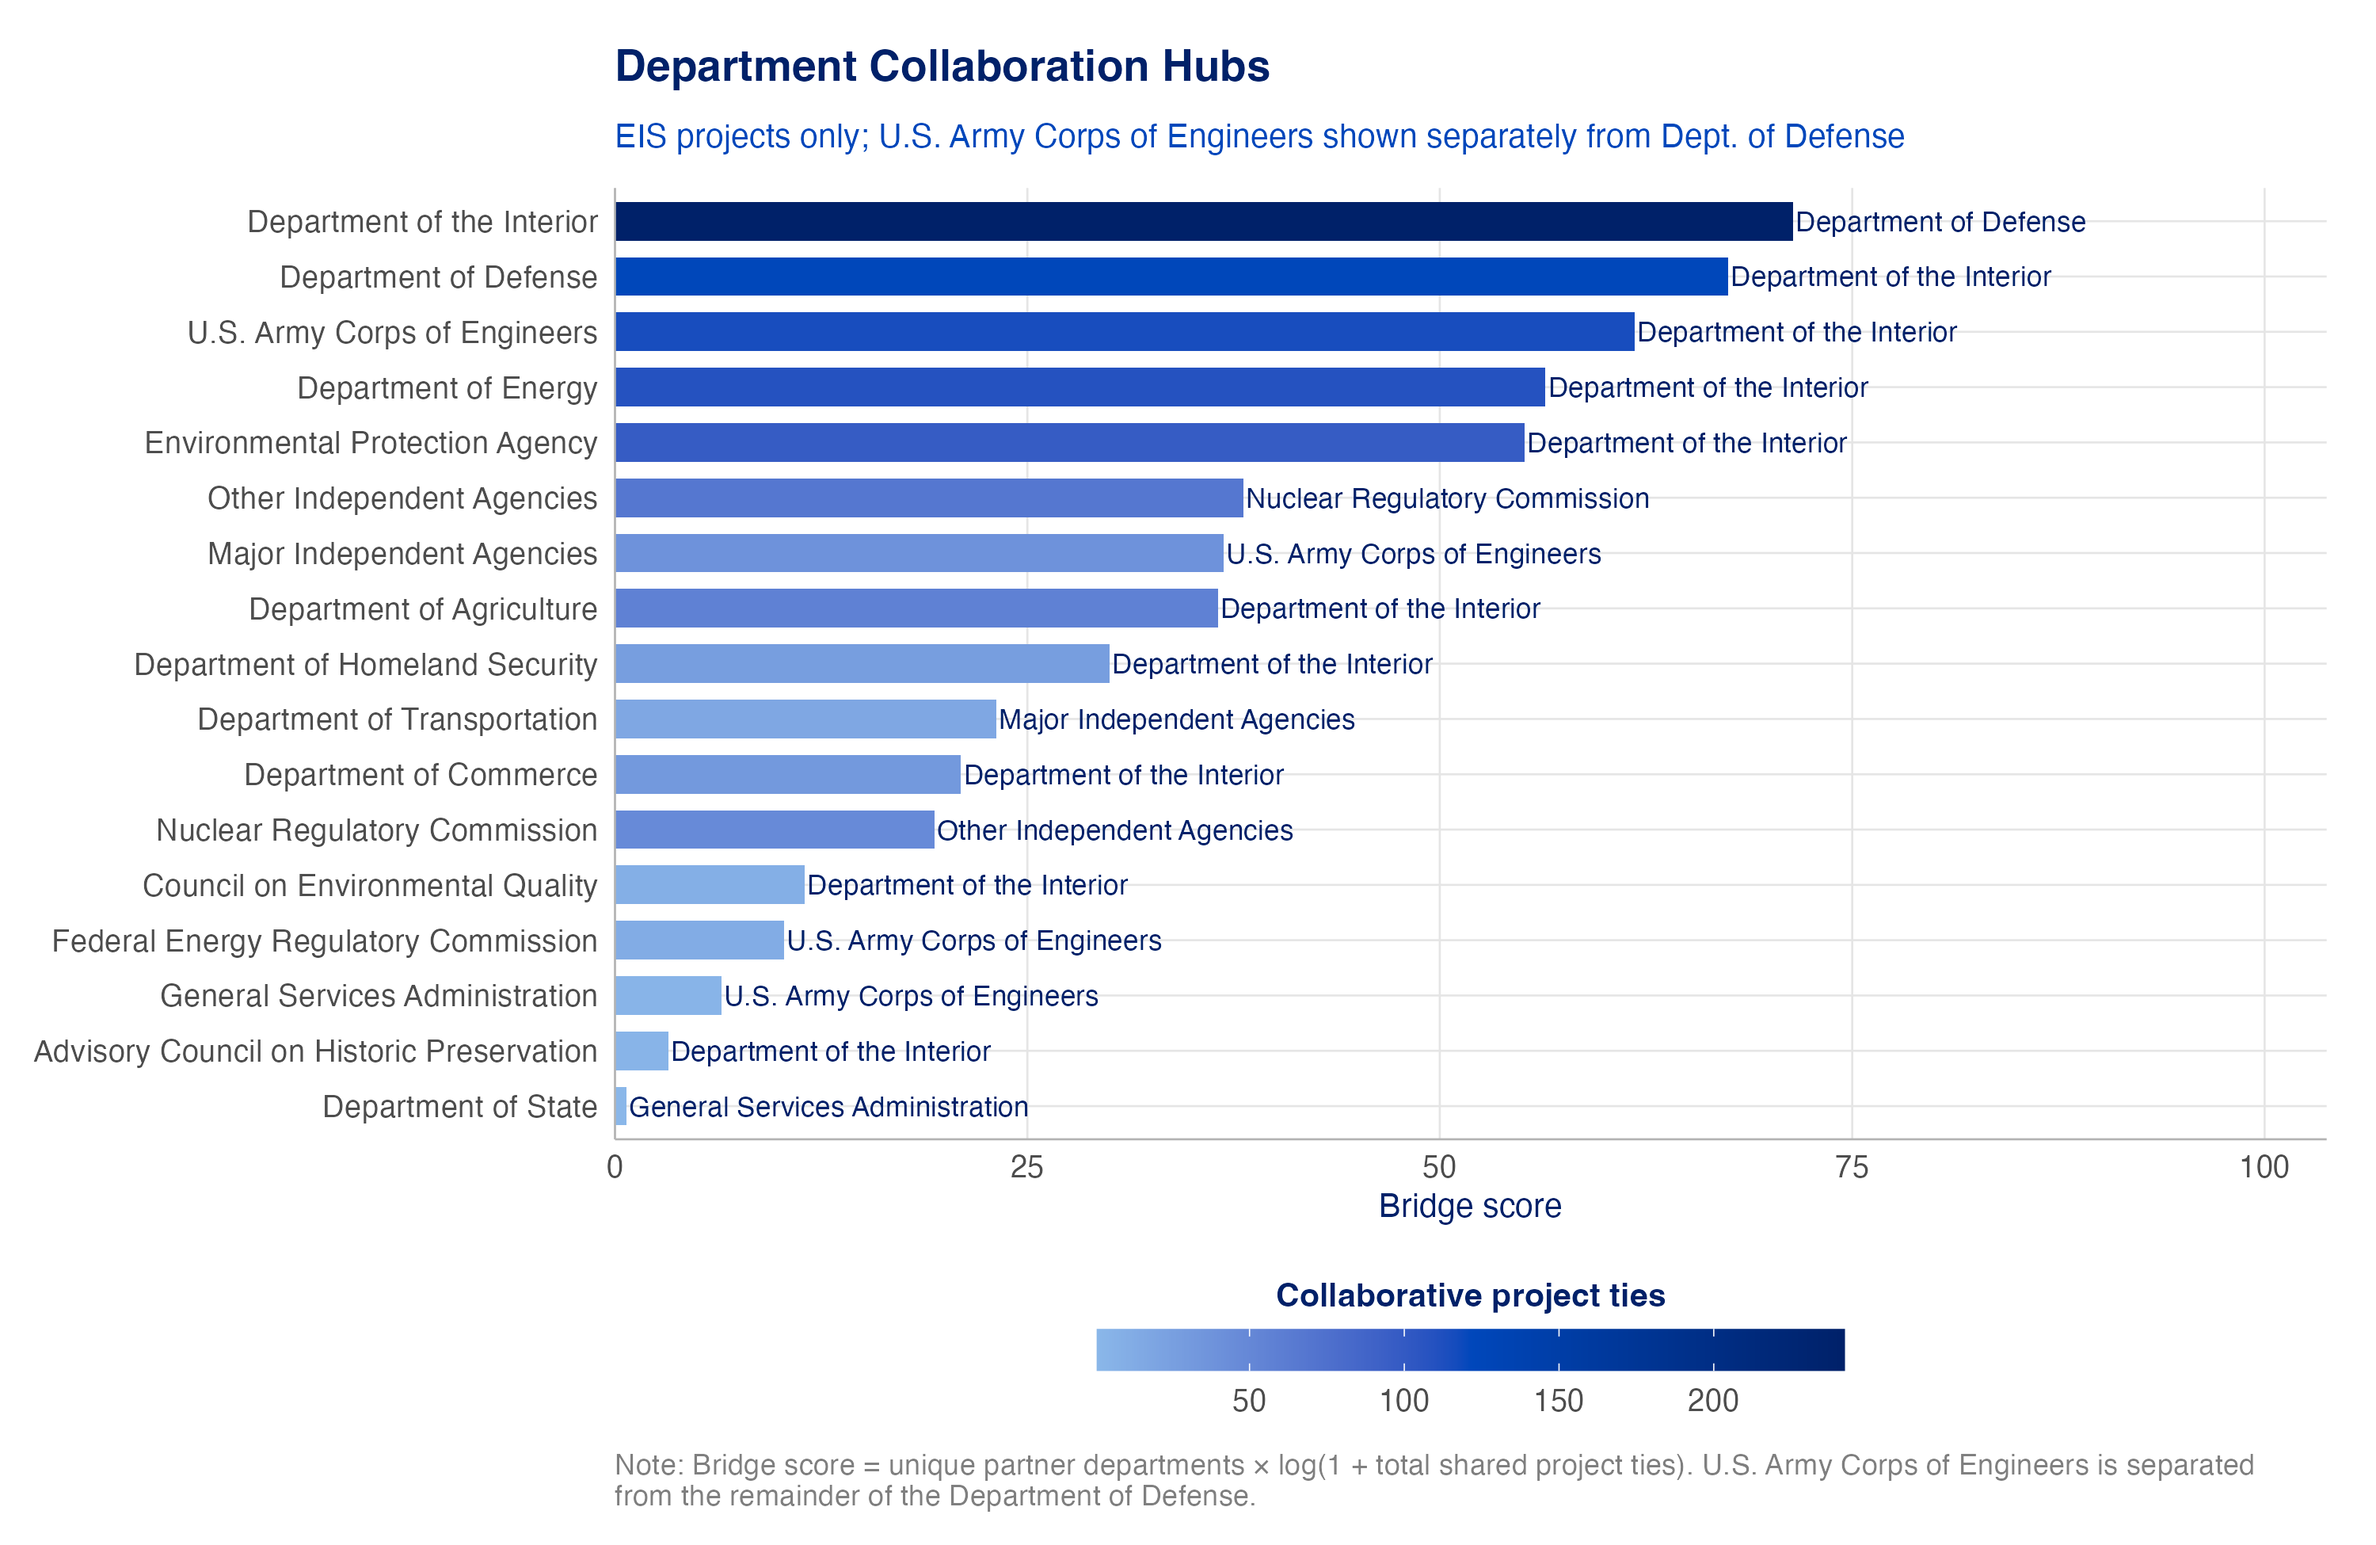
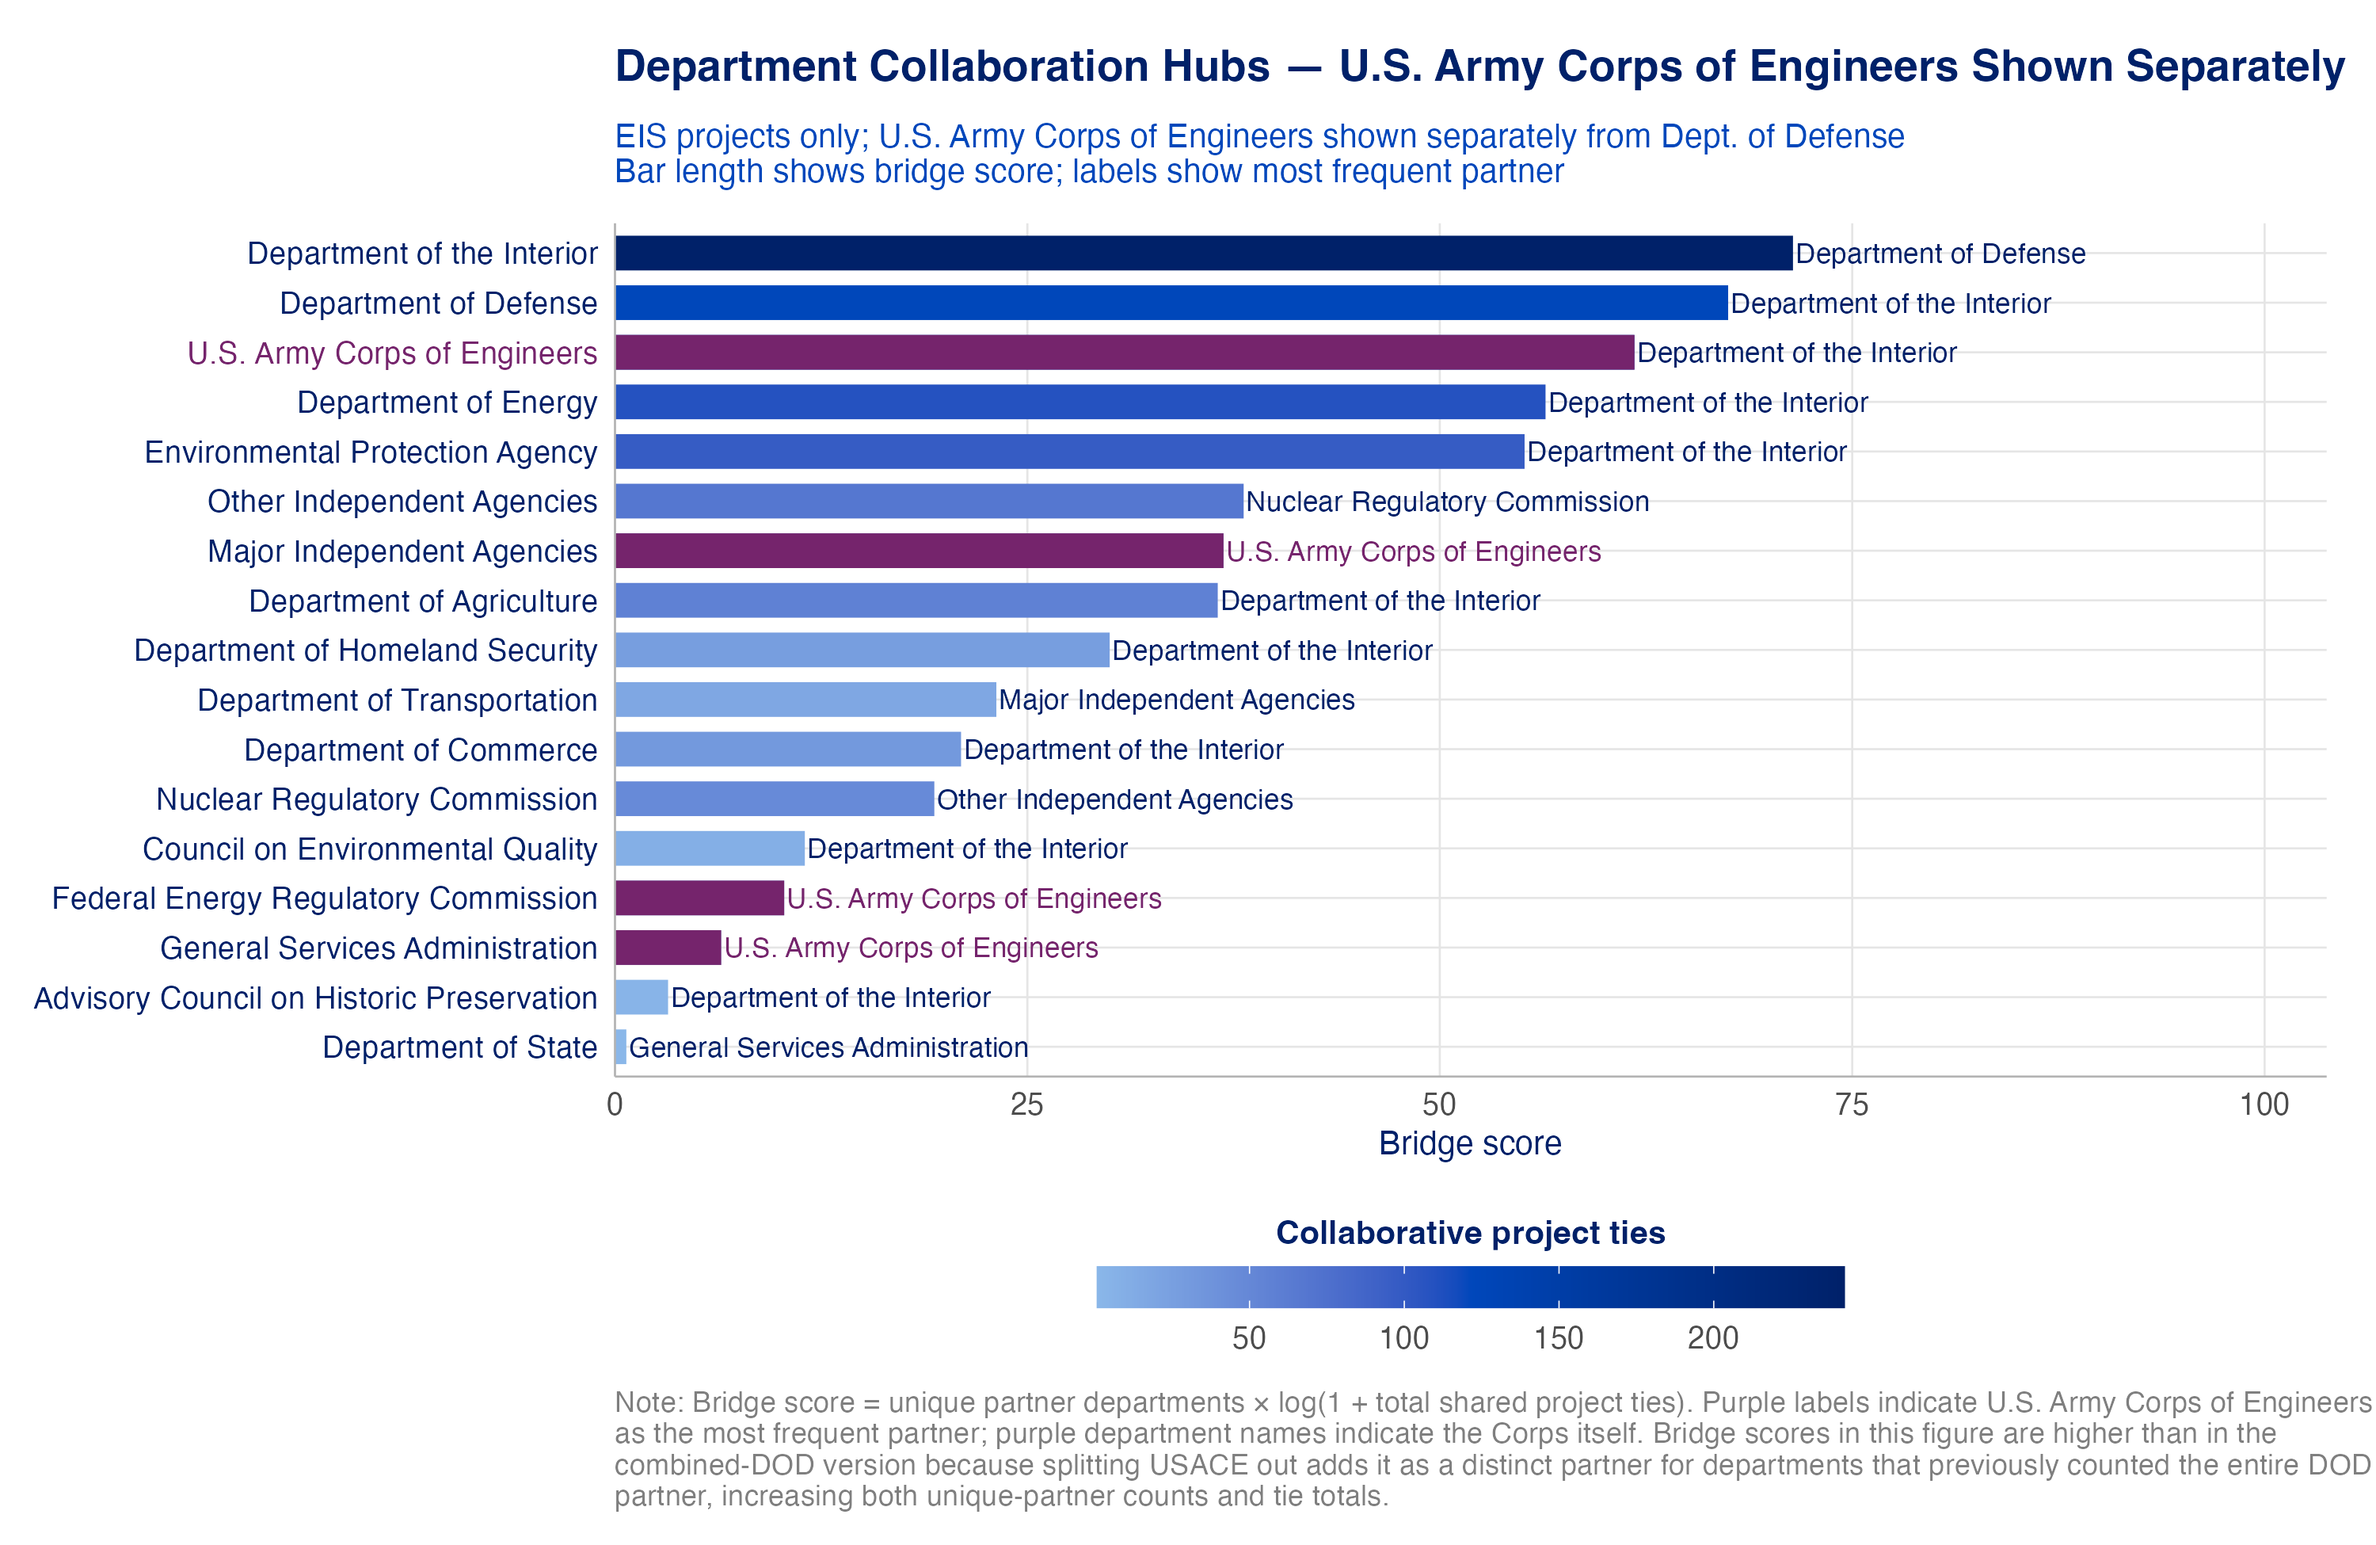
Refine Corps breakout hub figure: purple highlighting and updated notes
- Replace discrete fill with gradient fill + purple overlay layer for USACE-related bars
- Color right-side partner labels and left-side y-axis label purple for USACE rows
- Update title, subtitle, and footnote to explain purple convention and bridge score inflation
- Add factsheet_figures.md with full Q&A notes from client discussion, including
  methodological caveats on tie counts vs. project counts and bridge score inflation

Changed region(s): [[0.031, 0.0923, 1.0, 0.9846], [0.558, 0.0308, 0.992, 0.0615]]

diff --git a/phase1/notes/factsheet_figures.md b/phase1/notes/factsheet_figures.md
@@ -1,0 +1,70 @@
+# Factsheet Figures: Notes and Client Q&A
+
+## Background
+
+A client asked two questions about figures 7 (department collaboration hubs) and 8 (department Sankey) in the phase 1 deliverable 4 report. This document summarizes the answers, the new figures built in response, and the methodological caveats that came out of the discussion.
+
+---
+
+## Q1: Does the analysis capture only NEPA roles, or also Section 7 ESA consultations, USACE Section 404 permits, and other non-NEPA statutory processes?
+
+**Answer: Strictly NEPA roles only.**
+
+The co-agency extraction (`extract_coagency_names.py`) detects agencies by scanning EIS/EA document text for explicit NEPA role labels: Lead Agency, Joint Lead Agency, Co-Lead Agency, Cooperating Agency, and Participating Agency. No statutory consultation language (Section 7, Section 404, etc.) is extracted unless the agency is also formally named in one of those NEPA roles in the document text.
+
+USACE and USFWS appear frequently in the figures not because of their Section 404/Section 7 roles, but because they are routinely designated as NEPA cooperating or lead agencies in energy project EIS documents.
+
+**Verified:** Zero non-NEPA roles exist in the extracted data.
+
+---
+
+## Q2: Can Army Corps of Engineers (USACE) be broken out separately from the rest of DOD?
+
+**Answer: Yes — new figures were built.**
+
+The original figures aggregated all agencies to the department level, placing USACE under "Department of Defense." Because `agency_normalized = "U.S. Army Corps of Engineers"` is preserved in `coagency_name_hits.parquet`, USACE can be split out by remapping its department before building pairs.
+
+**New figures added to `phase1/output/factsheet/figures/`:**
+- `fig_department_collaboration_hubs_corps.png` — hub figure with USACE as a separate node
+- `fig_department_sankey_filtered_corps.png` — Sankey with USACE as a separate node
+
+**USACE alias coverage confirmed:** All raw variants ("US Army Corps of Engineers", "USACE", "Army Corps of Engineers", "US ARMY CORPS OF ENGINEERS", "US Army CorPs of Engineers") normalize to `"U.S. Army Corps of Engineers"`. No USACE projects are missed.
+
+**Code:** New figures are built inside `phase1/code/factsheet_figures.R`, in a dedicated section after the original Fig 7/8 block. The USACE remap applies to `coagency_name_hits_sankey` before pair-building, then follows the same lead-to-partner, joint-lead, and fallback logic as the original figures.
+
+---
+
+## Methodological Caveat: Tie Counts vs. Project Counts
+
+The hub and Sankey figures use a **tie-count metric** (number of pair appearances), not a unique project count. These differ because a single project can generate multiple pairs — e.g., a project with DOE (lead), DOI (cooperating), and DOD (cooperating) creates two DOD pairs: (DOE, DOD) and (DOI, DOD), giving DOD +2 ties from 1 project.
+
+**Example for DOD:** 104 unique projects with any DOD entity → 124 collaborative ties in the hub table. The gap reflects projects where DOD is paired with more than one other department simultaneously.
+
+### Double-counting in the Corps breakout figures
+
+Splitting USACE out of DOD introduces an additional inflation. Of the 104 EIS projects involving any DOD entity, **69 (66%)** include both USACE and at least one other DOD component (e.g., Air Force, Army). In the original figure, each of those 69 projects contributed 1 DOD tie. In the Corps breakout figure, each contributes 2 ties — one toward USACE and one toward DOD-remaining. This is why USACE (111) + DOD-remaining (118) = 229, far exceeding the original combined DOD count of 124.
+
+**The Corps breakout figures correctly show USACE as a major cooperative actor, but the tie counts are not comparable between the original and the Corps breakout versions.**
+
+### Why bridge scores are higher in the Corps breakout figure
+
+Bridge score = unique partner departments × log(1 + total shared project ties). Splitting USACE out of DOD causes both inputs to increase for most departments: a department that previously had "DOD" as a single partner now has two distinct partners ("USACE" and "DOD-remaining"), and its tie count rises from the same double-counting inflation described above. The higher bridge scores in the Corps breakout figure are therefore an artifact of the split, not evidence of genuinely more collaboration. The scores within the Corps figure are internally consistent and valid for ranking departments relative to each other, but should not be compared against scores from the original combined-DOD figure.
+
+### Project-level breakdown (the cleaner summary)
+
+| Group | Projects |
+|---|---|
+| USACE only (no other DOD) | 13 |
+| USACE + at least one other DOD component | 69 |
+| Other DOD only (no USACE) | 22 |
+| **Any DOD entity (total)** | **104** |
+
+USACE is present in **82 of 104** DOD-involved EIS reviews, reflecting its frequent role as a NEPA cooperating agency on energy projects.
+
+---
+
+## Suggested language for analysis write-up
+
+> Of the 104 EIS projects involving any DOD entity, 13 involve USACE alone, 69 involve USACE alongside at least one other DOD component (such as the Air Force or Army), and 22 involve a non-USACE DOD component with no Corps involvement. USACE is present in 82 of 104 DOD-involved EIS reviews, reflecting its frequent role as a NEPA cooperating agency.
+>
+> The hub and Sankey figures count agency pair appearances rather than unique projects. Projects with both USACE and another DOD component generate two pairs in the Corps breakout figures — one for USACE and one for DOD-remaining — so the tie counts for these nodes cannot be summed and compared against the original combined DOD figure.
